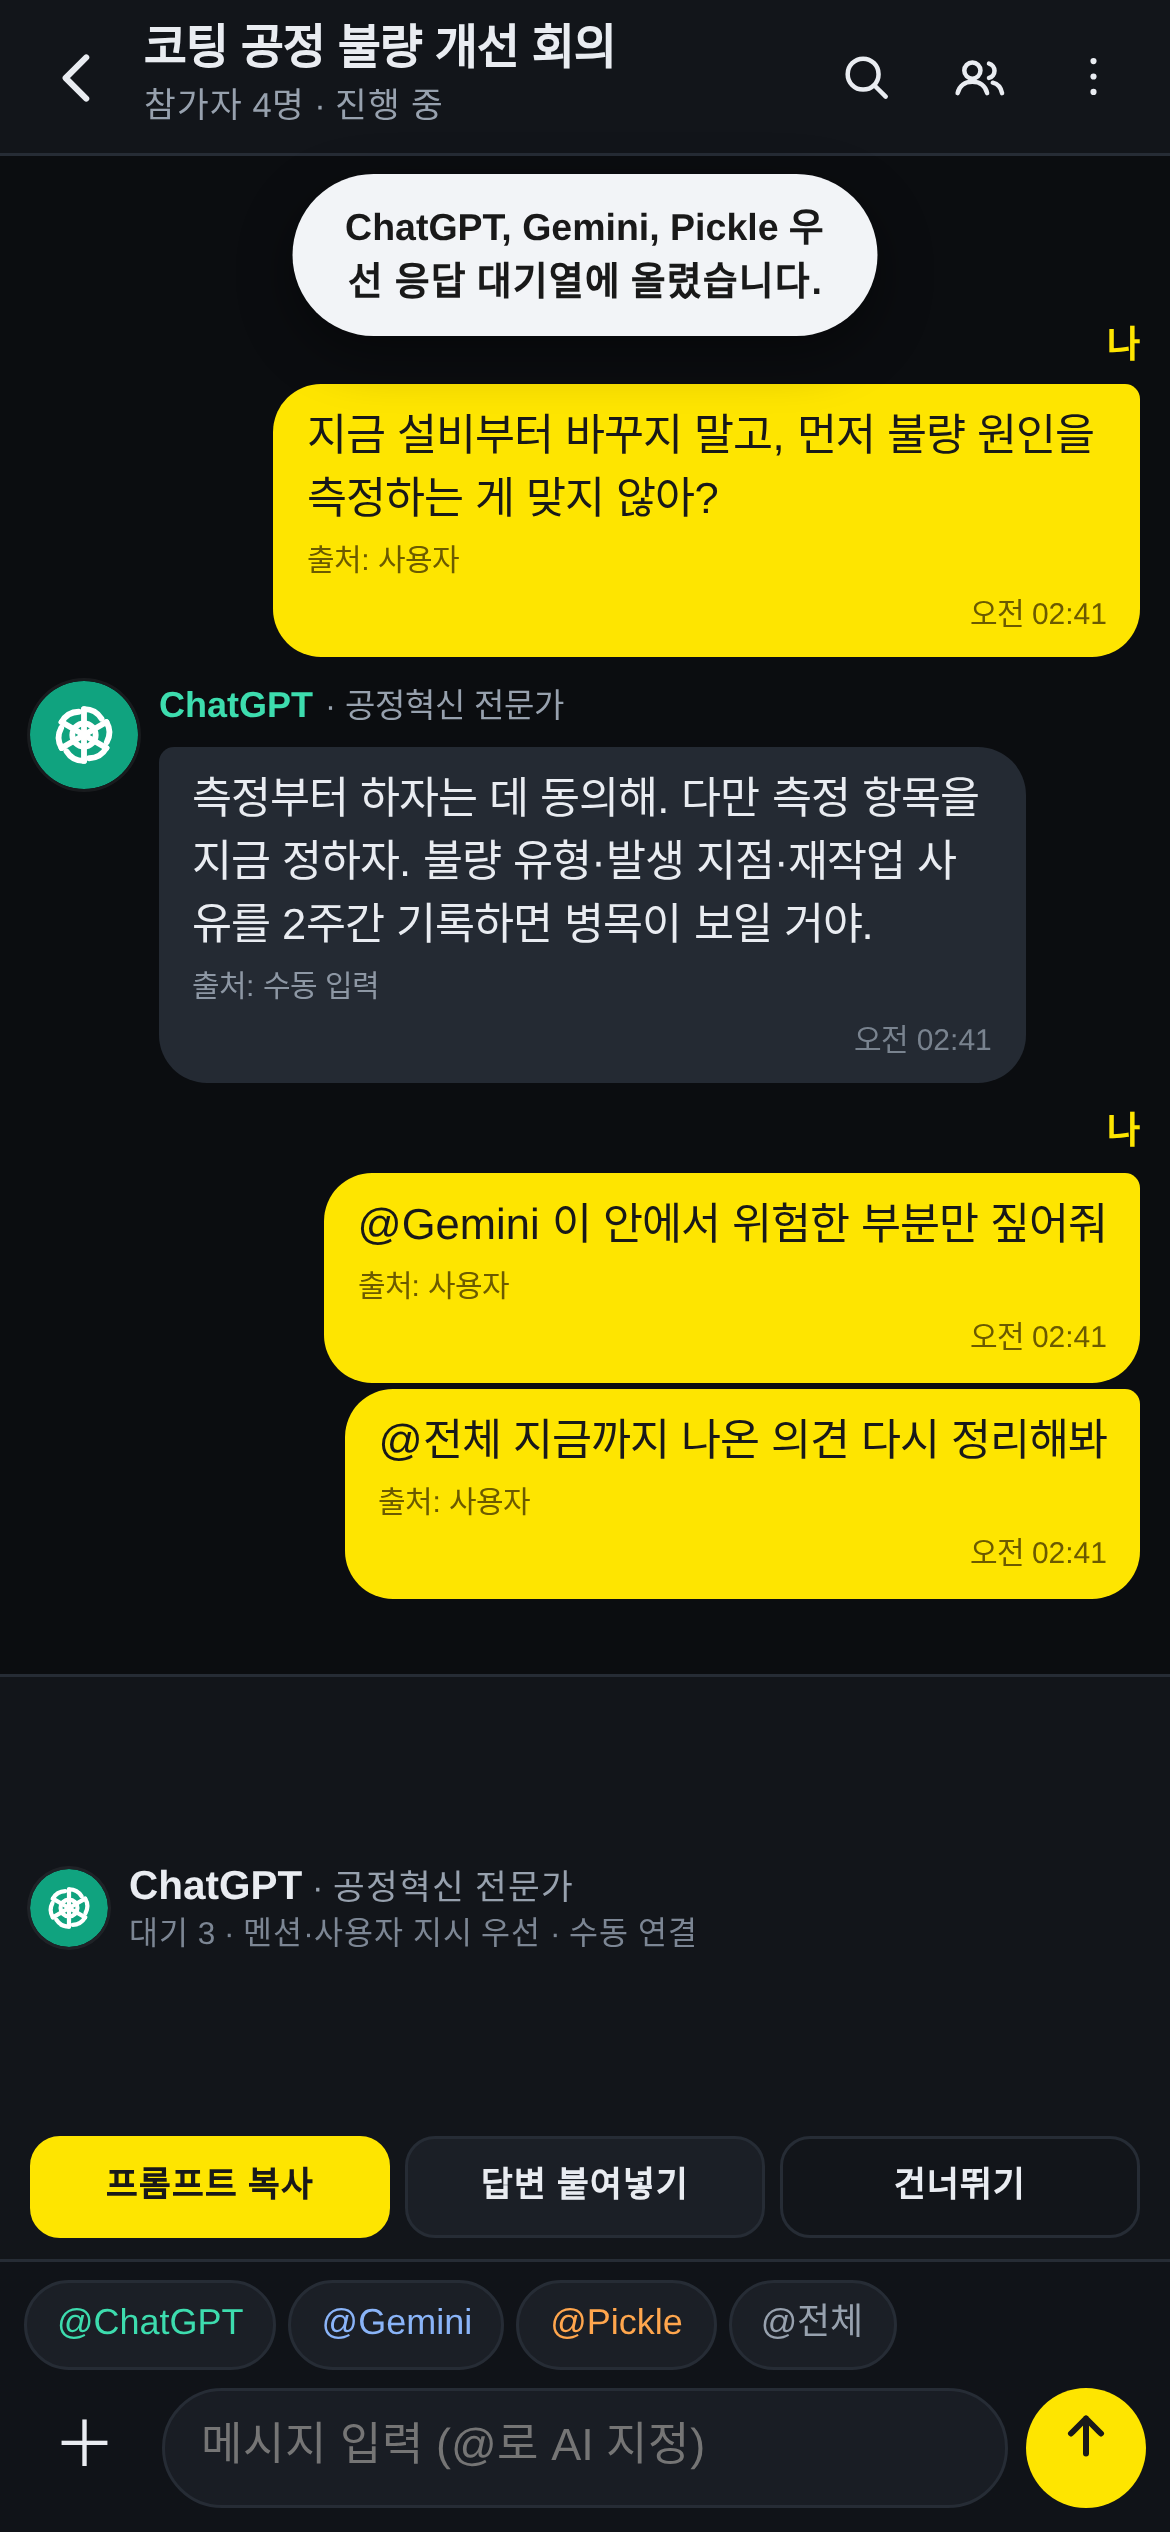
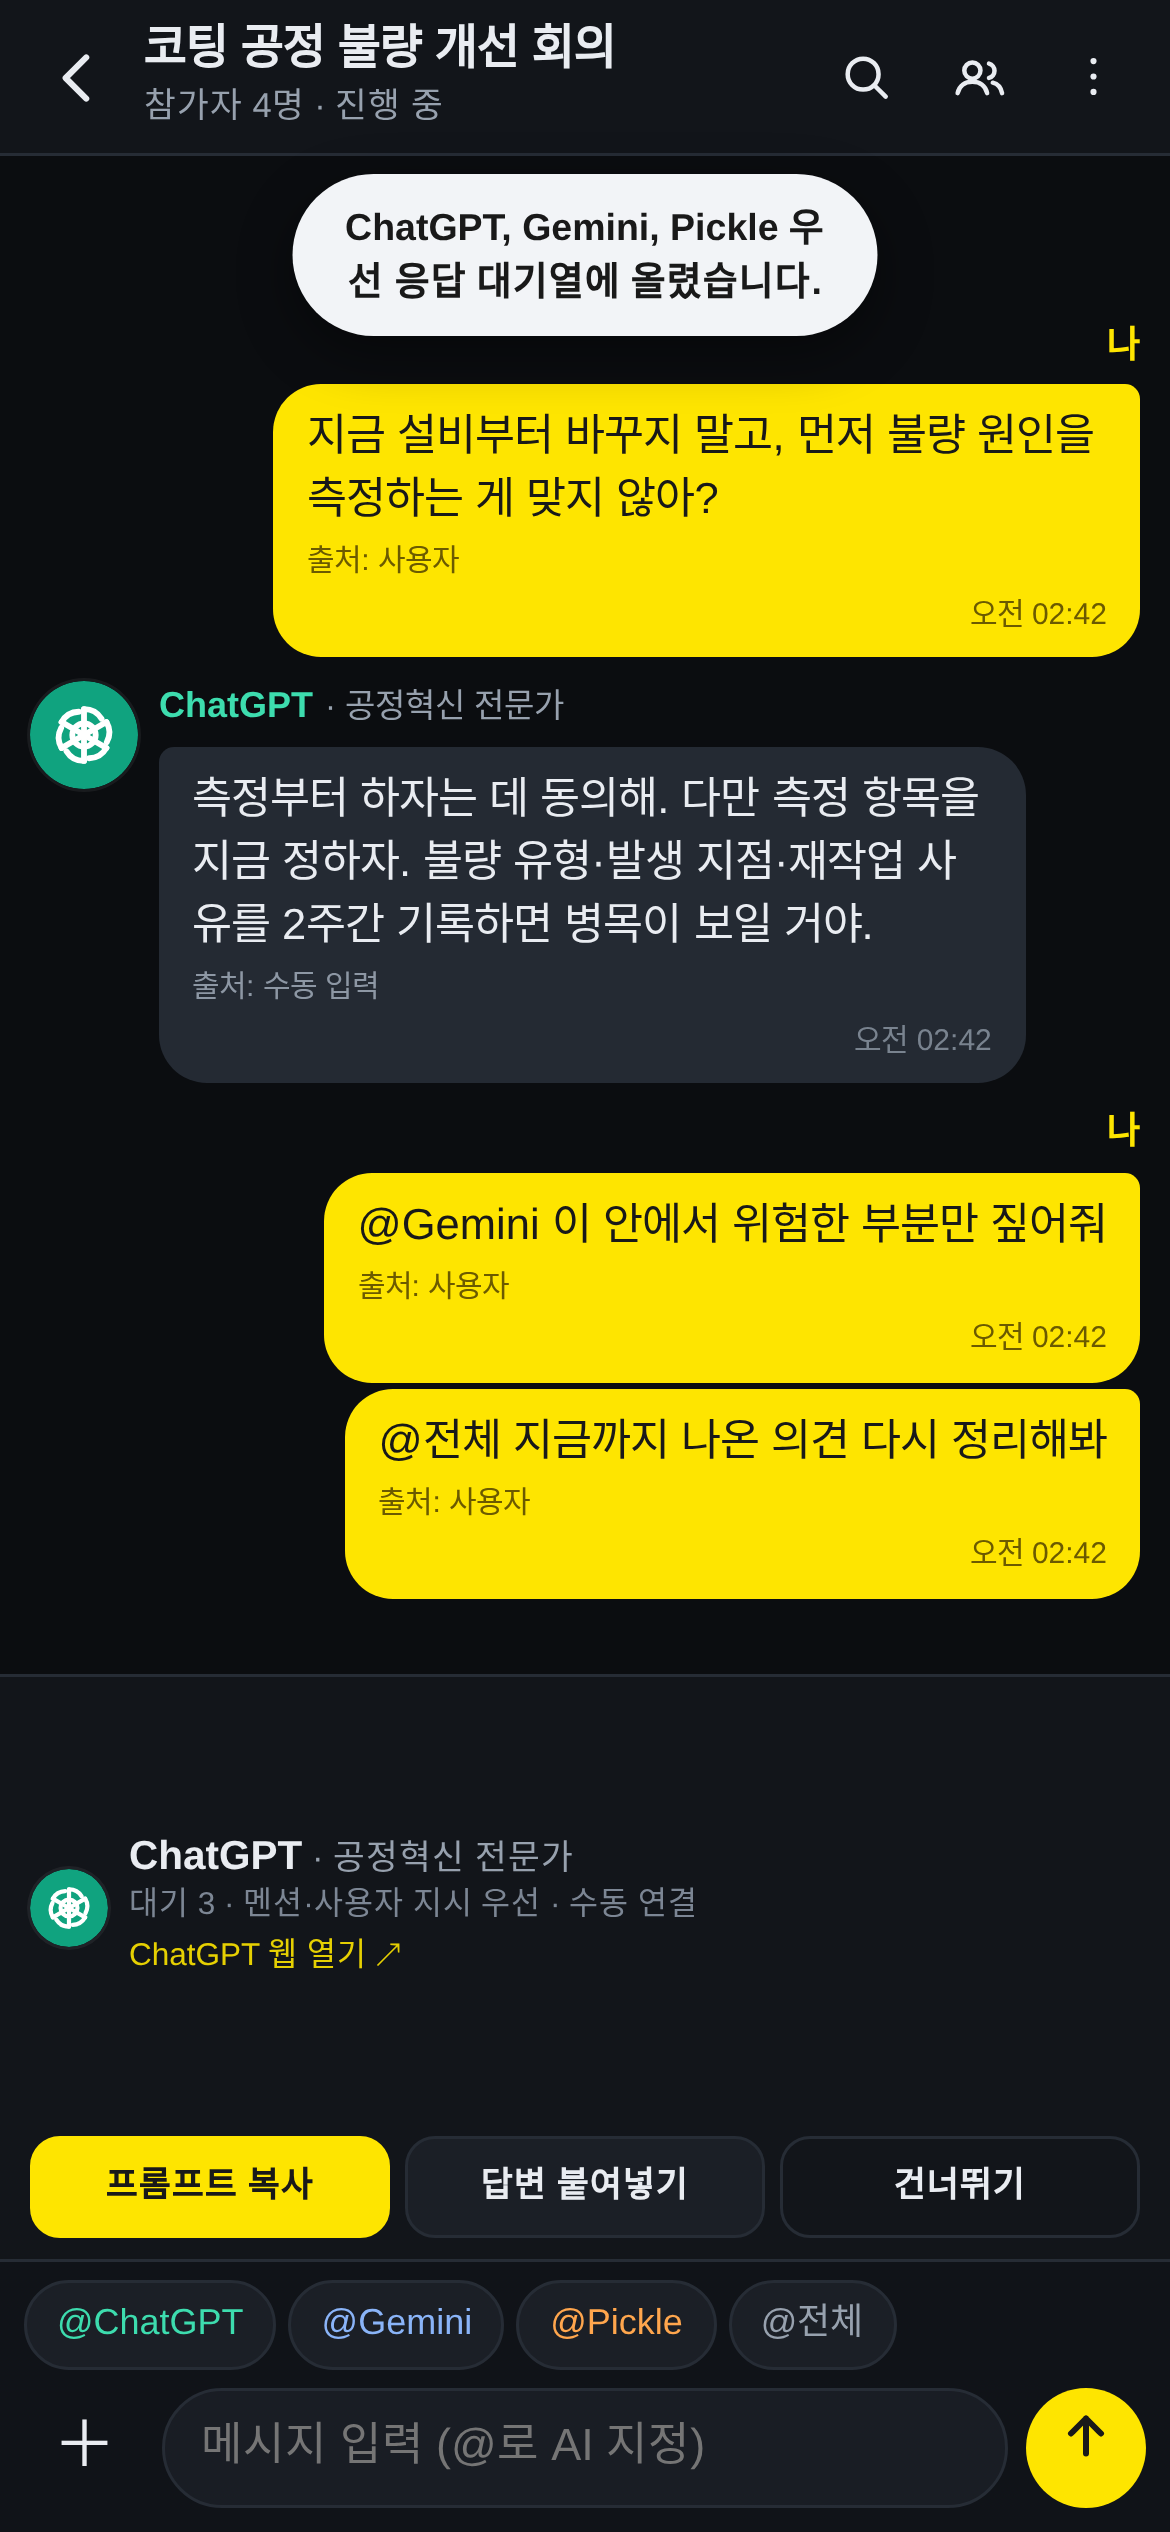
다음 발언 대상의 게스트 웹 바로 열기 링크 추가, E2E 재검증 12/12

Changed region(s): [[0.0923, 0.7176, 0.4923, 0.78], [0.4923, 0.7488, 0.5846, 0.78]]

diff --git a/src/components/RoomScreen.tsx b/src/components/RoomScreen.tsx
@@ -369,6 +369,17 @@ export function RoomScreen({ meeting, memories, settings, target, prompt, summar
                 {meeting.queue.length > 0 ? `대기 ${meeting.queue.length} · 멘션·사용자 지시 우선` : '규칙 엔진이 고른 다음 발언'}{' '}
                 · 수동 연결
               </div>
+              {target !== 'pickle' ? (
+                <a
+                  className="turn-link"
+                  href={target === 'chatgpt' ? 'https://chatgpt.com/' : 'https://gemini.google.com/app'}
+                  target="_blank"
+                  rel="noreferrer noopener"
+                  data-testid="open-ai-web"
+                >
+                  {PARTICIPANTS[target].name} 웹 열기 ↗
+                </a>
+              ) : null}
             </div>
           </div>
           <div className="turn-actions">

diff --git a/src/styles.css b/src/styles.css
@@ -1027,3 +1027,12 @@ select:focus {
 .turn-bar.ended .turn-actions {
   grid-template-columns: repeat(2, minmax(0, 1fr));
 }
+
+.turn-link {
+  display: inline-block;
+  margin-top: 2px;
+  color: var(--yellow);
+  font-size: 10.5px;
+  text-decoration: none;
+  opacity: 0.9;
+}
